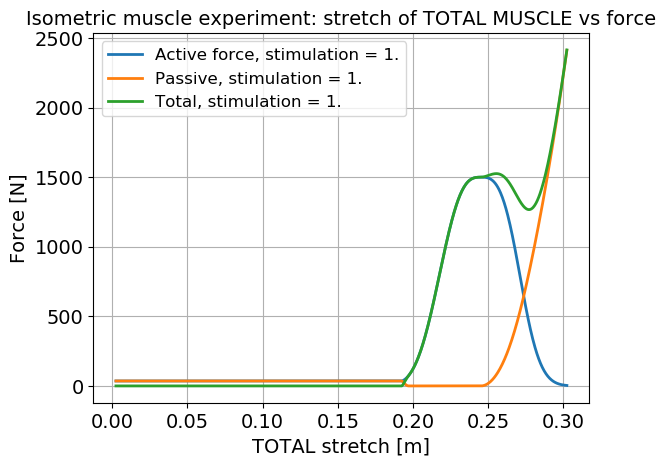
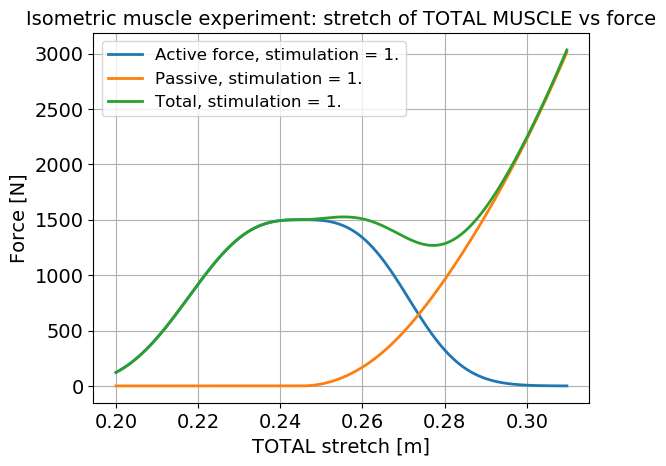
Fixed issue of over-compression during simulations

diff --git a/LAB05/Python/exercise1.py b/LAB05/Python/exercise1.py
@@ -38,9 +38,10 @@ class TimeParameters:
 
 def find_ce_stretch_iso(muscle_sys, ce_stretch, time_param, stimulation=1, error_max=0.01):
     """Finds the total relative stretch to apply to obtain ce_stretch in isometric mode"""
-    stretch = error_max
-
-    # Simulation parameters
+    stretch = 0
+    # The stretch is constant for over compression (i.e[0,sth]) hence we wanna monitor this to avoid being
+    # in a regime where the computations are biased.
+    minimal_ce_stretch = None
     x0 = [0.0, muscle_sys.muscle.L_OPT]
 
     while True:
@@ -48,13 +49,16 @@ def find_ce_stretch_iso(muscle_sys, ce_stretch, time_param, stimulation=1, error
                                       time=time_param.times,
                                       time_step=time_param.step,
                                       stimulation=stimulation,
-                                      muscle_length=stretch * (muscle_sys.muscle.L_OPT+muscle_sys.muscle.L_SLACK))
-        if result.l_ce[-1]/muscle_sys.muscle.L_OPT > ce_stretch:
-            pylog.info("Reaches l_ce stretch " + str(result.l_ce[-1]/muscle_sys.muscle.L_OPT) + " for total stretch of:"
-                       + str(stretch))
-            break
+                                      muscle_length=stretch)
+        if minimal_ce_stretch is None:
+            minimal_ce_stretch = result.l_ce[-1]  # Monitoring the what the ce_stretch is in over compression
         else:
-            stretch += error_max
+            if result.l_ce[-1] > ce_stretch * x0[1] and result.l_ce[-1] > minimal_ce_stretch:
+                pylog.info("Reaches l_ce stretch " + str(result.l_ce[-1]/muscle_sys.muscle.L_OPT) +
+                           " for total stretch of:" + str(stretch))
+                break
+            else:
+                stretch += error_max
 
     return stretch
 
@@ -134,7 +138,7 @@ def iso_experiment(muscle_stimulation=1., ce_stretch_max=1.5, ce_stretch_min=0.5
     muscle_stretch_max = find_ce_stretch_iso(sys, ce_stretch_max, time_param)
     muscle_stretch_min = find_ce_stretch_iso(sys, ce_stretch_min, time_param)
     stretches = np.arange(muscle_stretch_min, muscle_stretch_max, muscle_stretch_max / nb_pts)
-    x0 = [0.0, sys.muscle.L_OPT + sys.muscle.L_SLACK]
+    x0 = [0.0, sys.muscle.L_OPT]
 
     # Containers
     active_force = []
@@ -150,7 +154,7 @@ def iso_experiment(muscle_stimulation=1., ce_stretch_max=1.5, ce_stretch_min=0.5
                                time=time_param.times,
                                time_step=time_param.step,
                                stimulation=muscle_stimulation,
-                               muscle_length=stretch * (x0[1]))
+                               muscle_length=stretch)
         active_force.append(result.active_force[-1])
         passive_force.append(result.passive_force[-1])
         total_force.append(result.tendon_force[-1])
@@ -343,12 +347,10 @@ def exercise1():
     # exercise1c(time_param)
     # exercise1d()
 
-    print(DEFAULT["save_figures"])
     if DEFAULT["save_figures"] is False:
         plt.show()
     else:
         figures = plt.get_figlabels()
-        print(figures)
         pylog.debug("Saving figures:\n{}".format(figures))
         for fig in figures:
             plt.figure(fig)

diff --git a/LAB05/Python/muscle.py b/LAB05/Python/muscle.py
@@ -59,15 +59,6 @@ class Muscle(object):
         --------
         step : func
             Integrates muscle state by time step dt
-
-        Example:
-        --------
-        >>> from SystemParameters import MuscleParameters
-        >>> import Muscle
-        >>> muscle_parameters = MuscleParameters()
-        >>> muscle1 = Muscle.Muscle(muscle_parameters)
-        >>> muscle1.stim = 0.01
-        >>> muscle1.step(dt)
         """
 
         self.parameters = parameters
@@ -110,7 +101,7 @@ class Muscle(object):
 
     @property
     def l_ce(self):
-        """ Length of muscle contracticle element."""
+        """ Length of muscle contractile element."""
         return self._l_ce
 
     @property

diff --git a/LAB05/Python/isometric_muscle_system.py b/LAB05/Python/isometric_muscle_system.py
@@ -90,7 +90,7 @@ class IsometricMuscleSystem(object):
 
         #: Integration
 
-        #: Instatiate the muscle results container
+        #: Instantiate the muscle results container
         self.muscle.instantiate_result_from_state(time)
 
         #: Run step integration
